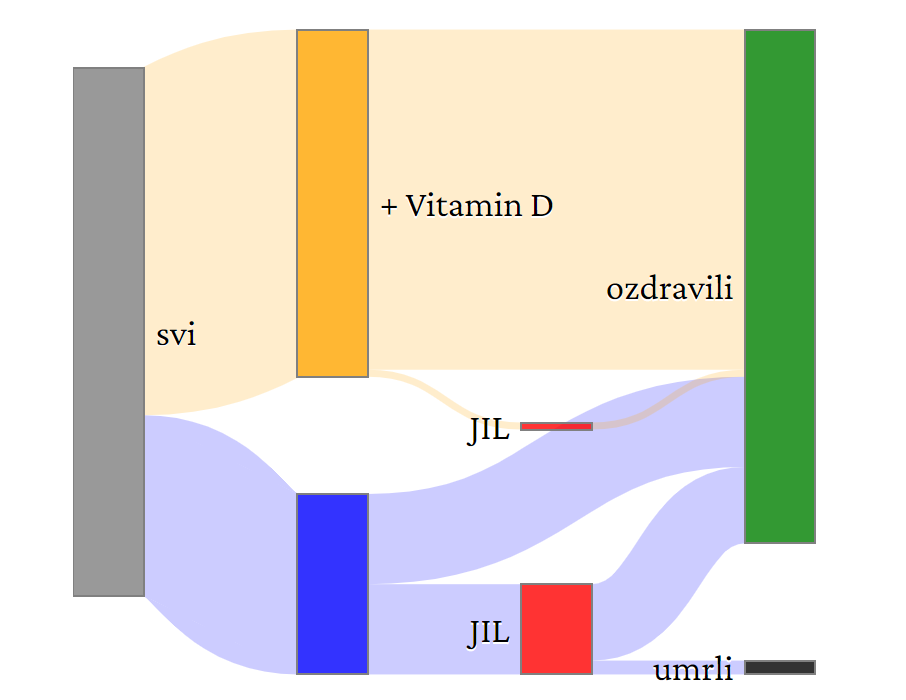
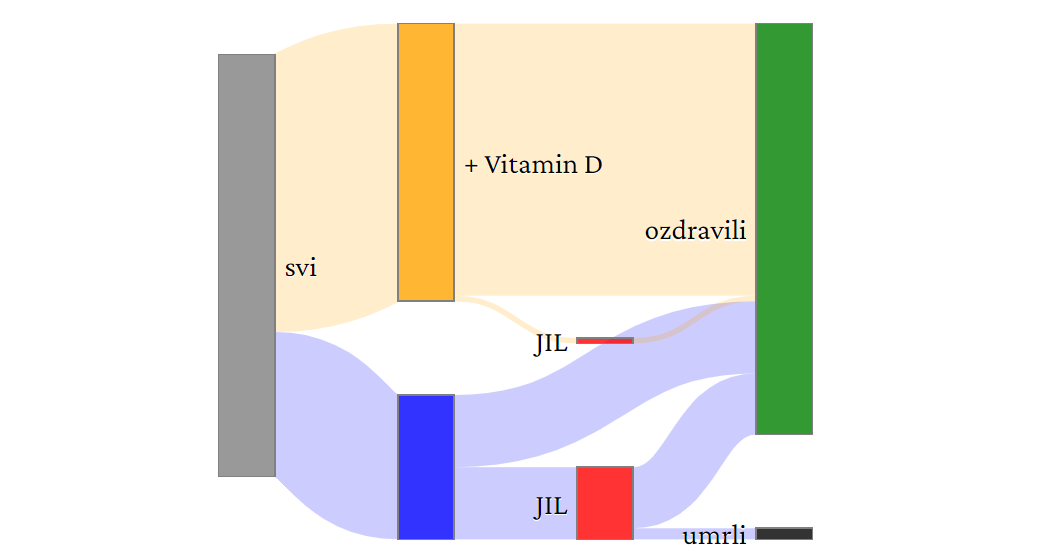
vit-d improved

diff --git a/story/vit-d/vit-d.md b/story/vit-d/vit-d.md
@@ -18,7 +18,7 @@ Iako znamo da kako je premalo vitamina D loša stvar, stručnjaci nisu složni o
 
 Prema studiji iz 2016. _[Vitamin D status and prevalence of inadequacy in Croatian population](https://www.bib.irb.hr/908094)_, prosječna koncentracija 25(OH)D u krvi je bila 54,4 nmol/l. Usprkos suncu, prehrani i dodataka prehrani, _gotovo pola_ (46,1%) stanovnika Hrvatske je ispod nižeg praga od 50 nmol/l, što znači da im **nedostaje vitamina D**. Čak 83,8% stanovništva ima razinu seruma 25(OH)D manju od 75 nmol/l, što je klasificirano kao **manjak** (insuficijencija) vitamina D. Studija zaključuje kako je među Hrvatima visoka prevalencija hipovitaminoze D.
 
-```vly
+```vly.exceptMob
 width: 300
 height: 30
 data:
@@ -42,6 +42,34 @@ encoding:
     scale:
       domain: [nedostatak vitamina D, manjak vitamina D, dovoljna razina vitamina D]
       range: [red, orange, green]
+caption: Prevalencija različitih kategorija nedostatka vitamina D među stanovnicima Hrvatske.
+```
+```vly.onlyMob
+width: 50
+height: 200
+data:
+  values:
+    - caption: nedostatak vitamina D
+      proportion: 46.1
+    - caption: manjak vitamina D
+      proportion: 37.7
+    - caption: dovoljna razina vitamina D
+      proportion: 16.2
+mark: bar
+encoding:
+  y:
+    type: quantitative
+    field: proportion
+    title: null
+    scale:
+      domainMax: 100
+  color:
+    title: null
+    type: nominal
+    field: caption
+    scale:
+      domain: [dovoljna razina vitamina D, manjak vitamina D, nedostatak vitamina D]
+      range: [green, orange, red]
 caption: Prevalencija različitih kategorija nedostatka vitamina D među stanovnicima Hrvatske.
 ```
 
